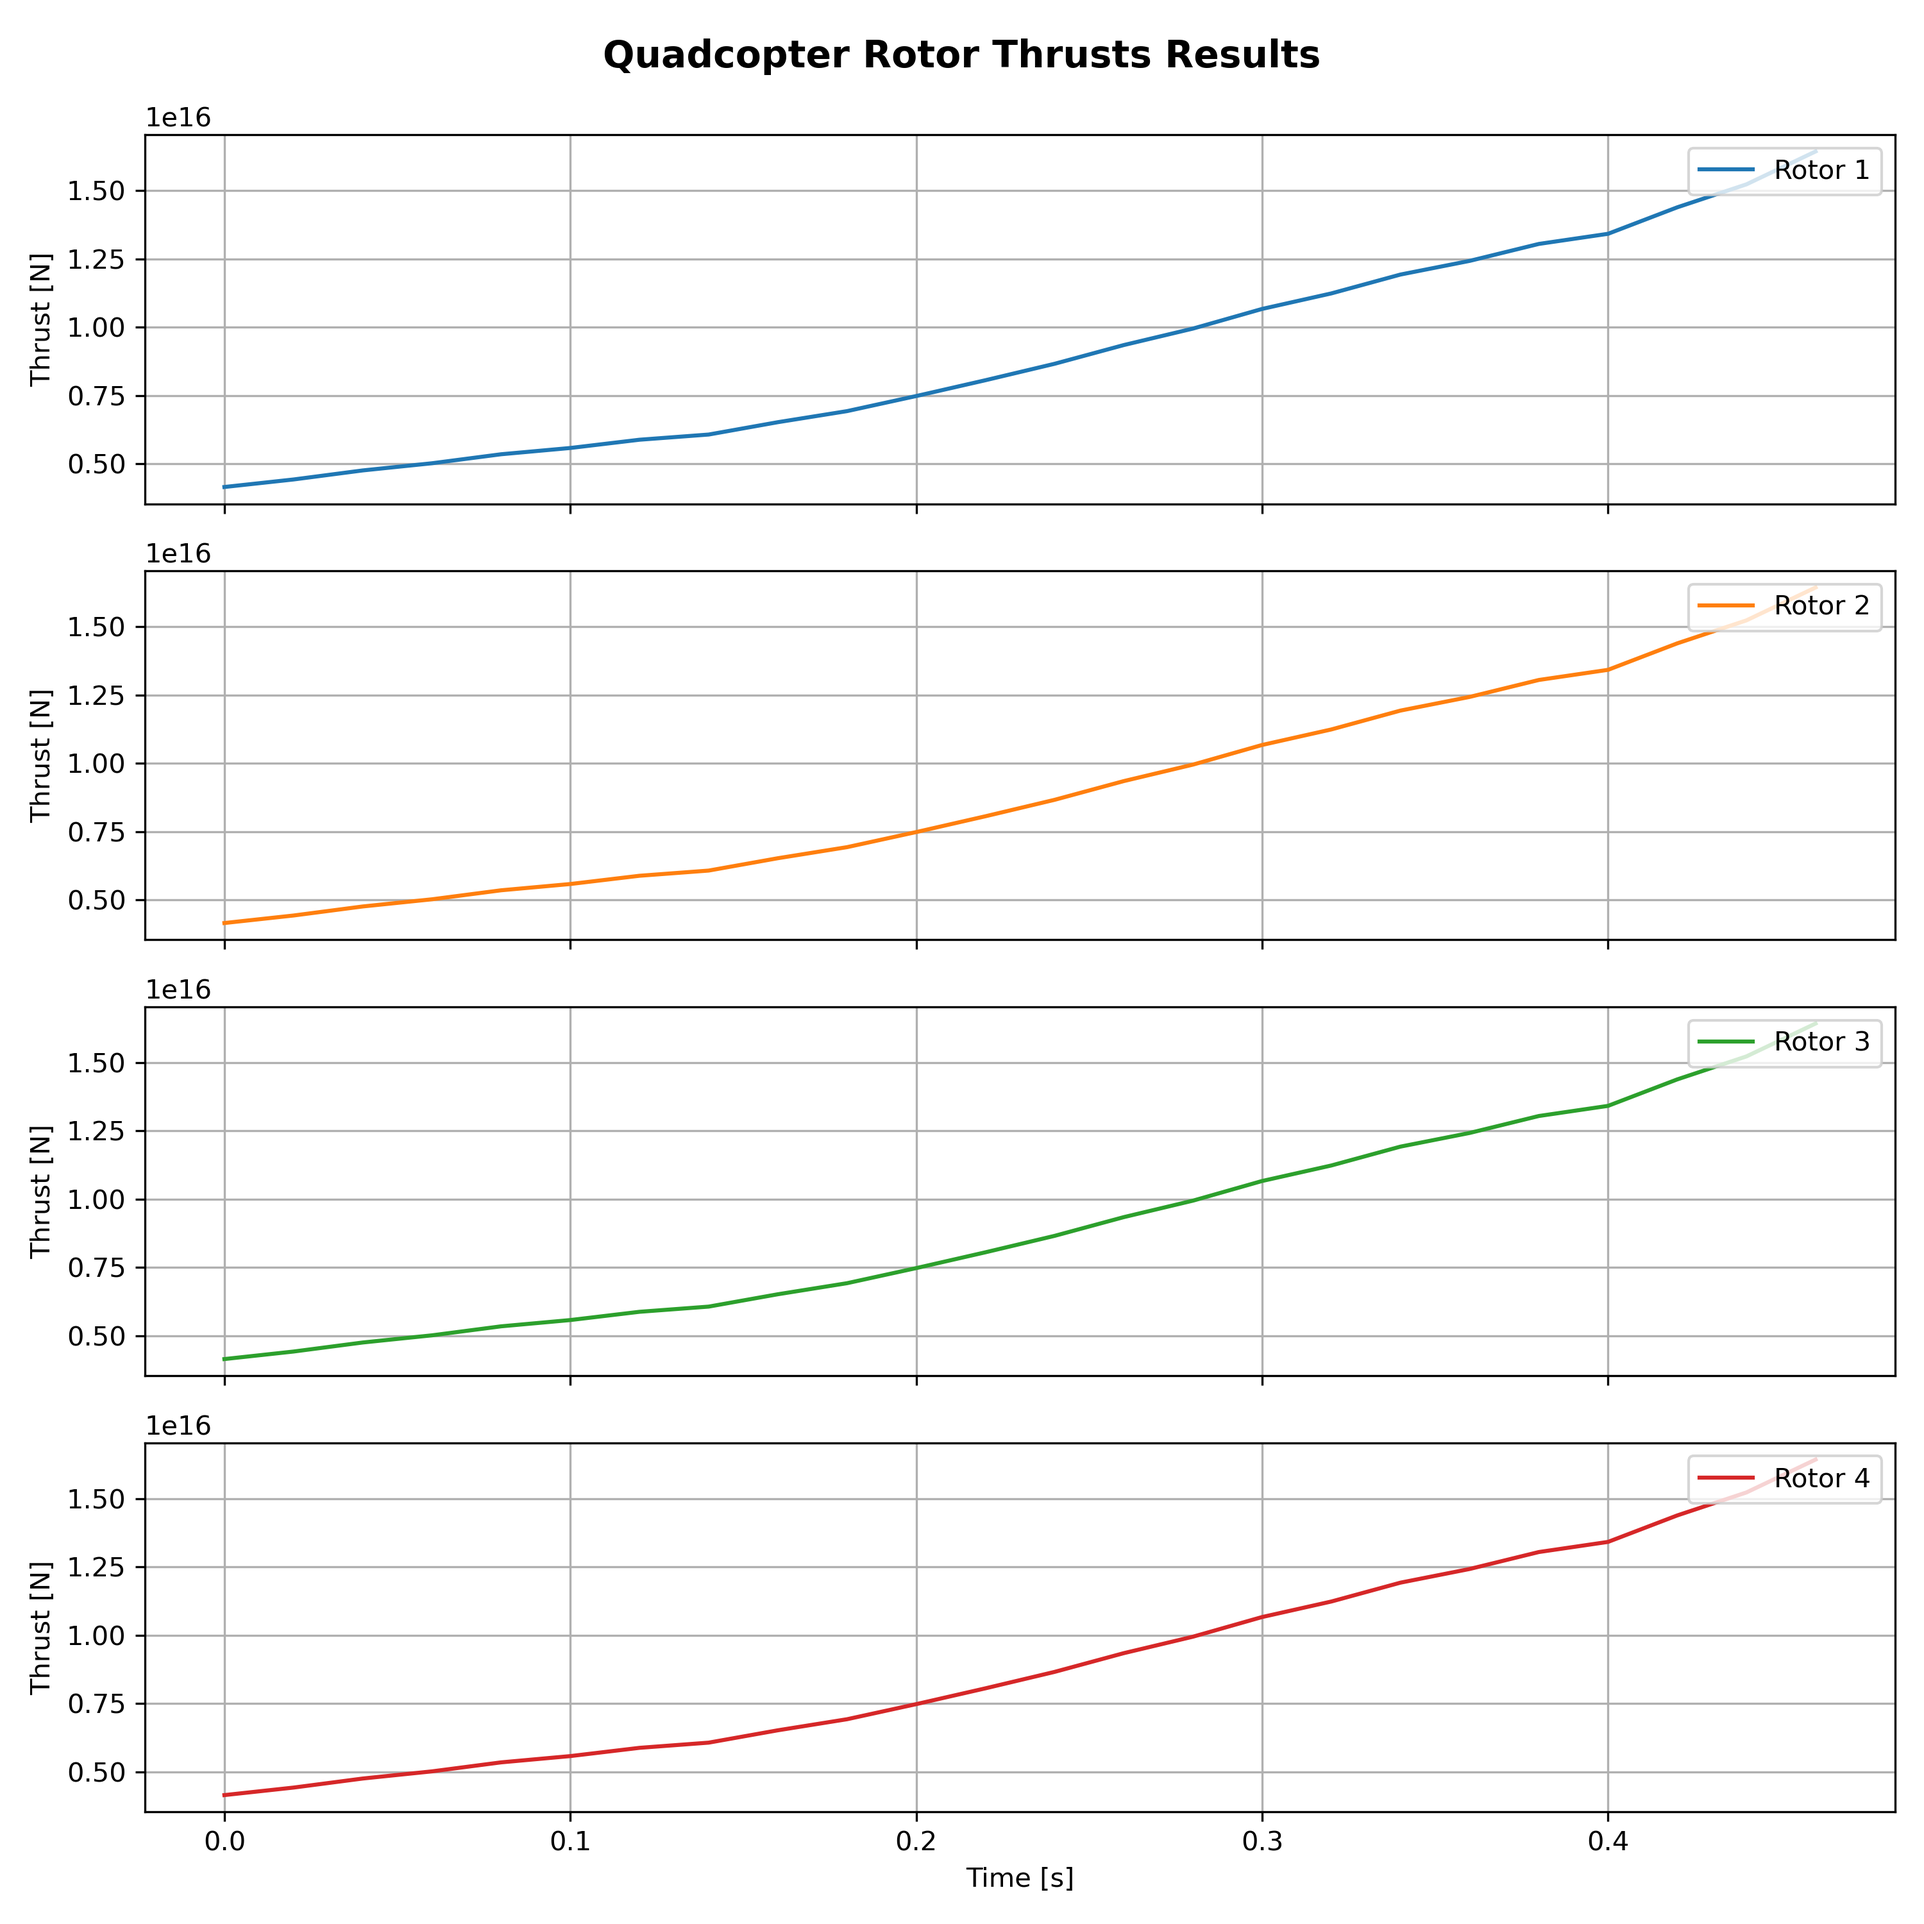
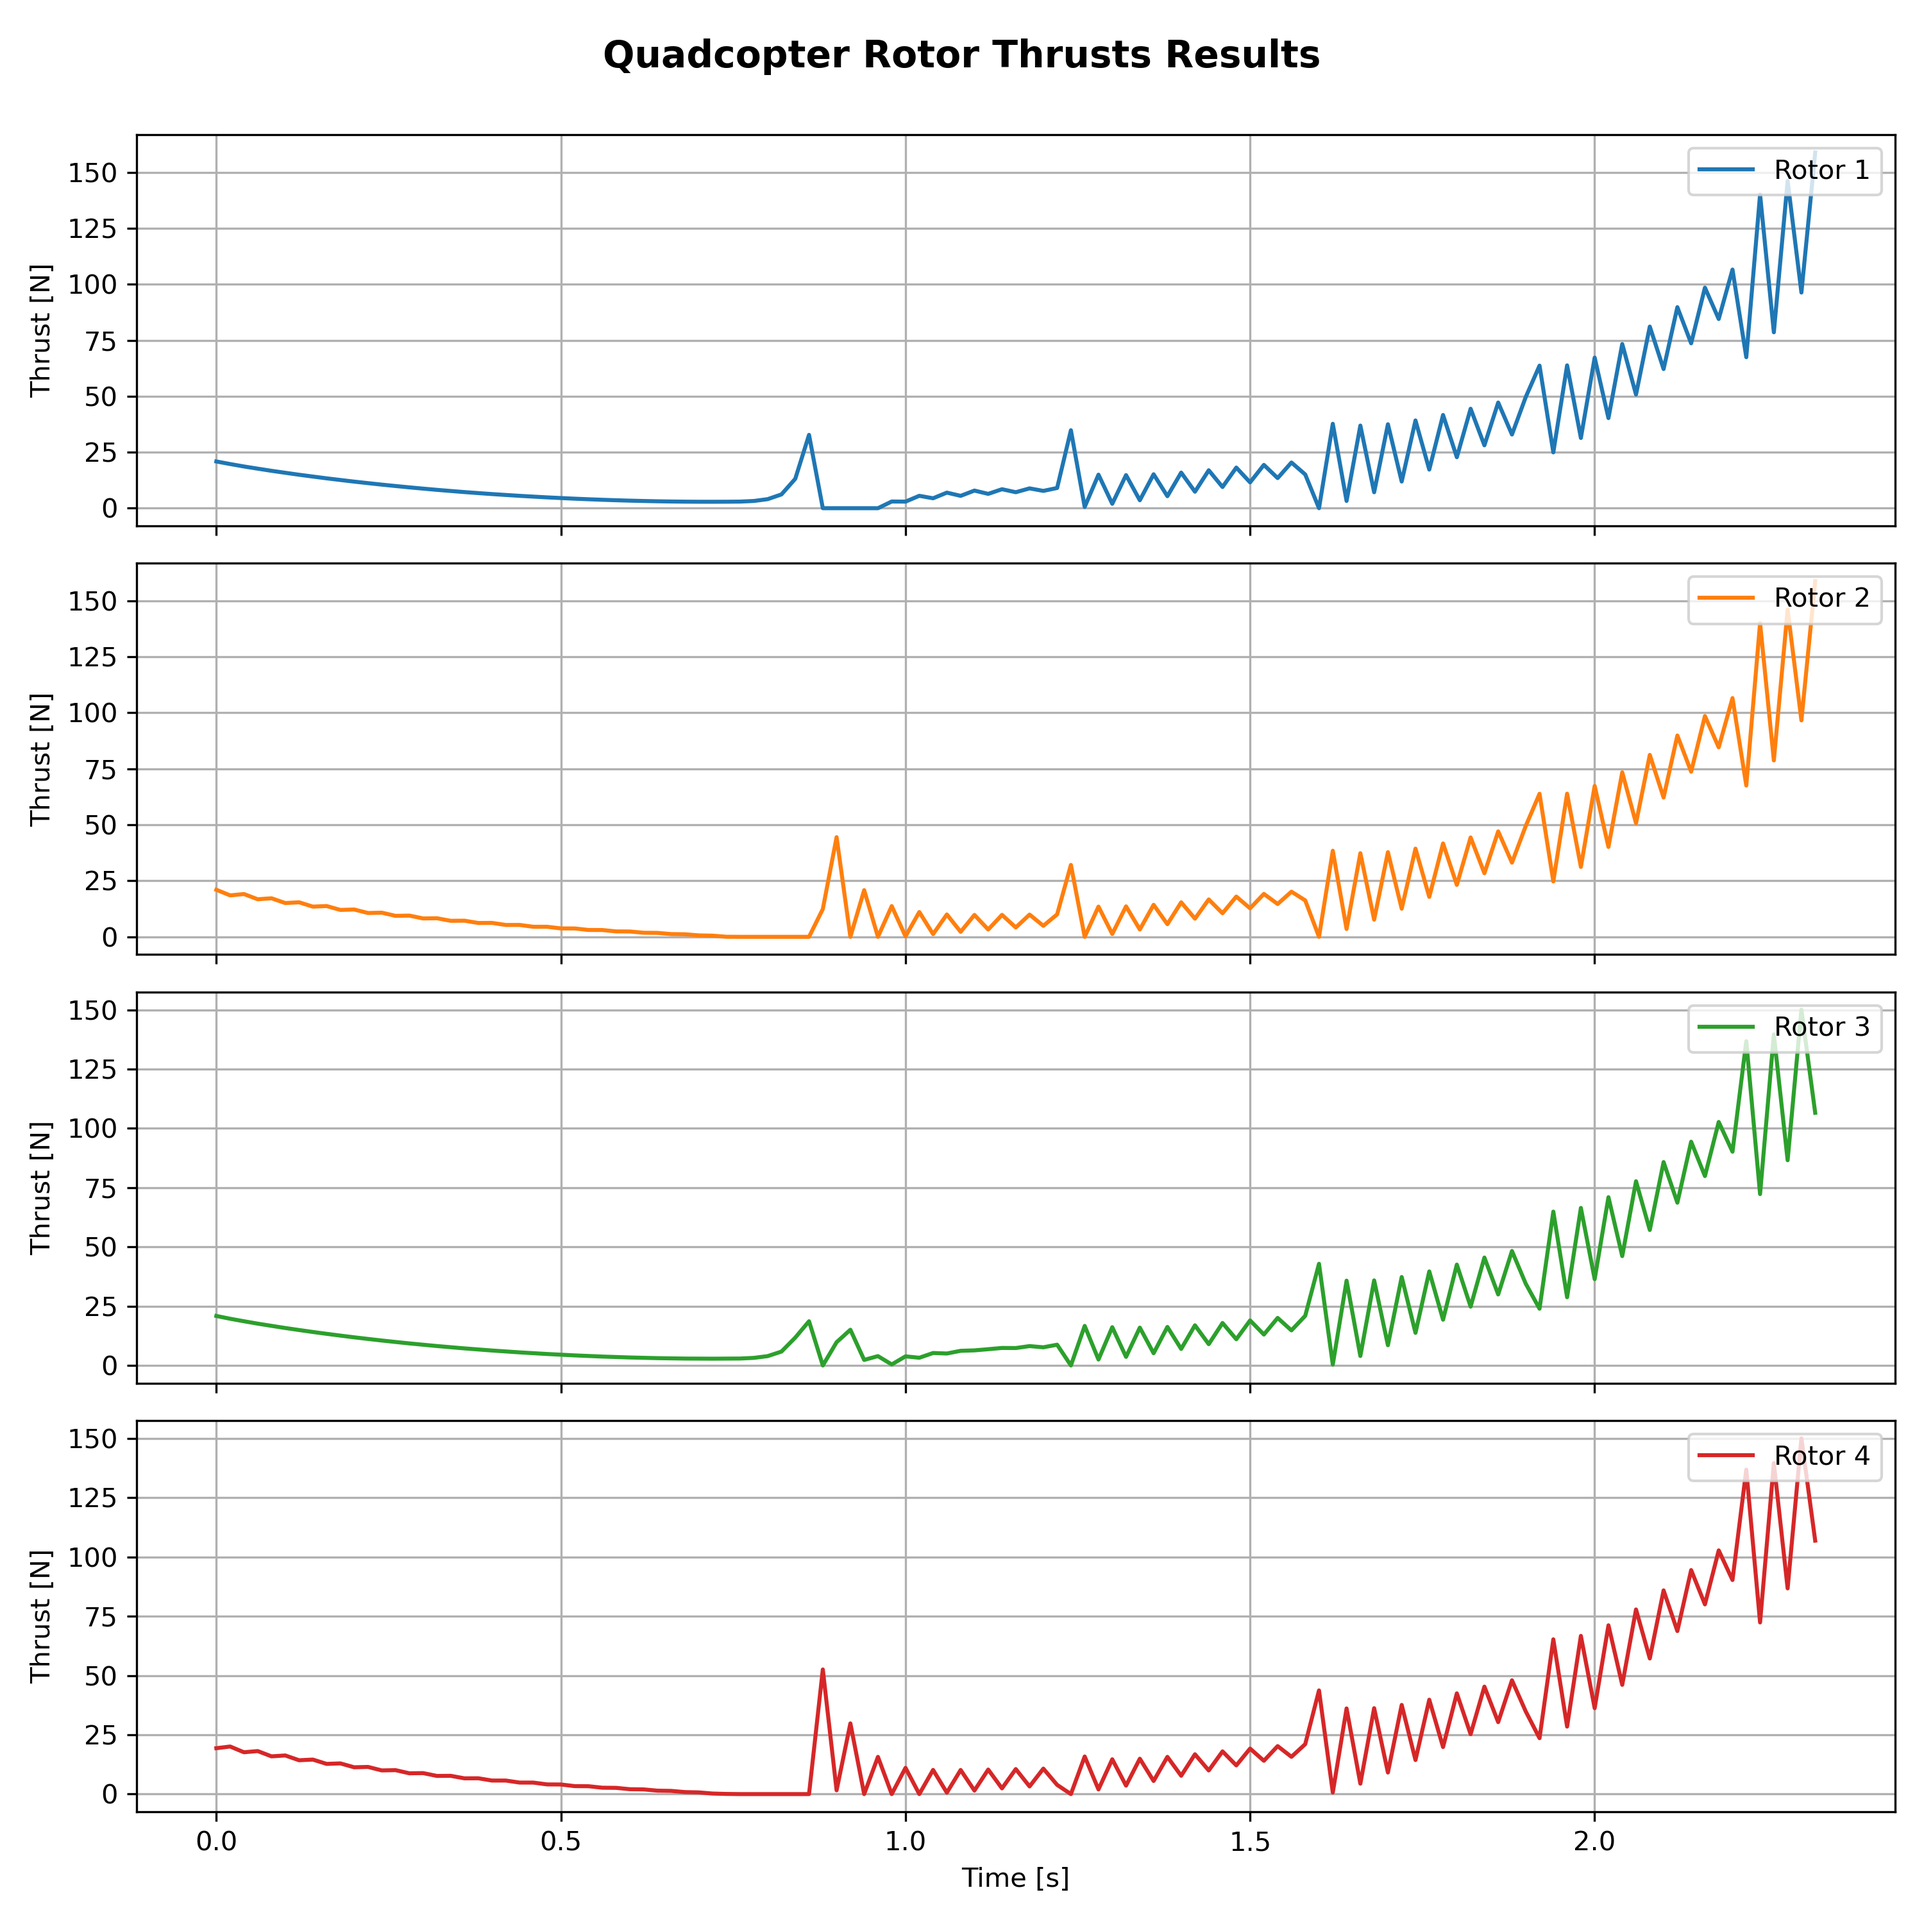
contpy_and_viz_fixed

diff --git a/Controller.py b/Controller.py
@@ -2,34 +2,66 @@ import numpy as np
 
 class Controller:
     def __init__(self, m=1.5, g=9.81,
-        Kp_pos = (2.0, 4.0,4.0), Kd_pos = (2.0,2.0,3.0),
-        Kp_att = (6.0, 6.0,3.0), Kd_att = (2.0,2.0,1.0)):
+        Kp_pos = (2.0, 4.0,4.0), Ki_pos = (0,0,0), Kd_pos = (2.0,2.0,3.0),
+        Kp_att = (6.0, 6.0,3.0), Ki_att = (0,0,0), Kd_att = (2.0,2.0,1.0)):
+
         self.m = m; self.g=g
-        self.Kp_pos = np.array(Kp_pos); self.Kd_pos = np.array(Kd_pos)
-        self.Kp_att = np.array(Kp_att); self.Kd_att = np.array(Kd_att)
+        self.Kp_pos = np.array(Kp_pos); self.Ki_pos = np.array(Ki_pos); self.Kd_pos = np.array(Kd_pos)
+        self.Kp_att = np.array(Kp_att); self.Ki_att = np.array(Ki_att); self.Kd_att = np.array(Kd_att)
 
-    def compute_control(self, state, target_pos, target_yaw=0.0):
-        x, y, z , phi, theta, psi, vx, vy, vz, p, q, r =state
-        pos = np.array([x,y,z])
-        vel = np.array([vx, vy, vz])
-        target_pos=np.array(target_pos)
+        self.pos_err_int = np.zeros(3)
+        self.att_err_int = np.zeros(3)
 
-        acc_des = self.Kp_pos*(target_pos - pos) - self.Kd_pos * vel
-        acc_des[2] += self.g
+    def compute_position_control(self,pos,vel,target_pos,dt):
+        pos_err = target_pos - pos
 
-        zb_des = acc_des / np.linalg.norm(acc_des)
-        xc_des = np.array([np.cos(target_yaw), np.sin(target_yaw), 0.0])
+        self.pos_err_int += pos_err * dt
+
+        self.pos_err_int = np.clip(self.pos_err_int, -2.0, 2.0)
+
+        acc_des = (self.Kp_pos * pos_err) + (self.Ki_pos * self.pos_err_int) - (self.Kd_pos * vel)
+        return acc_des
+    
+    def compute_attitude_control(self,att, rate, target_att,dt):
+        att_err = target_att - att
+
+        self.att_err_int += att_err *dt#오차 적분 누적
+
+        self.att_err_int = np.clip(self.att_err_int, -1.0, 1.0)#적분항 제한
+
+        tau = (self.Kp_att * att_err) + (self.Ki_att * self.att_err_int) - (self.Kd_att * rate)
+        return tau
+
+    def compute_kinetic_mapping(self, acc_des, target_yaw):
+        acc_des_g = acc_des.copy()
+        acc_des_g[2] += self.g
+
+        zb_des = acc_des_g / np.linalg.norm(acc_des_g)
+        xc_des = np.array([np.cos(target_yaw), np.sin(target_yaw) , 0.0])
         yb_des = np.cross(zb_des, xc_des)
         yb_des /= np.linalg.norm(yb_des)
-        xb_des = np.cross(yb_des, zb_des)
+        xb_des =np.cross(yb_des, zb_des)
         R_des = np.column_stack([xb_des, yb_des, zb_des])
 
-        theta_des = np.arcsin(-R_des[2,0])
+        theta_des = np.arcsin(-R_des[2, 0])
         phi_des = np.arctan2(R_des[2,1], R_des[2,2])
         psi_des = np.arctan2(R_des[1,0], R_des[0,0])
+        target_att = np.array([phi_des, theta_des, psi_des])
 
-        F_total = self.m * np.linalg.norm(acc_des)
-        att_err = np.array([phi_des-phi, theta_des-theta,psi_des-psi])
-        rate= np.array([p,q,r])
-        tau = self.Kp_att*att_err - self.Kd_att *rate
+        F_total = self.m * np.linalg.norm(acc_des_g)
+        return F_total, target_att
+
+
+
+    def compute_control(self, state, target_pos, target_yaw = 0.0, dt=0.01):
+        pos = np.array(state[0:3]); att = np.array(state[3:6])
+        vel = np.array(state[6:9]); rate = np.array(state[9:12])
+        target_pos = np.array(target_pos)
+
+        acc_des = self.compute_position_control(pos, vel, target_pos, dt)
+
+        F_total, target_att = self.compute_kinetic_mapping(acc_des, target_yaw)
+
+        tau = self.compute_attitude_control(att, rate, target_att, dt)
+
         return F_total, tau[0], tau[1], tau[2]

diff --git a/QuadCopter.py b/QuadCopter.py
@@ -174,7 +174,6 @@ if __name__ == "__main__":
     model = QuadCopter(m=m, arm_length=arm_length, Ixx=Ixx, Iyy=Iyy, Izz=Izz, g=g, c_yaw=c_yaw)
     controller = Controller(m=m, g=g)
     visualizer = Visualizer(arm_length=arm_length, r_rotor=r_rotor)
-    visualizer.live(model, controller, target_pos, dt)
 
     start_logging(model, controller, target_pos, dt)
     visualizer.live(model, controller, target_pos, dt)
